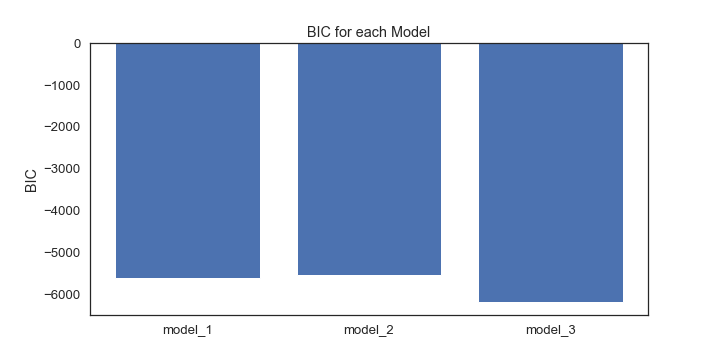
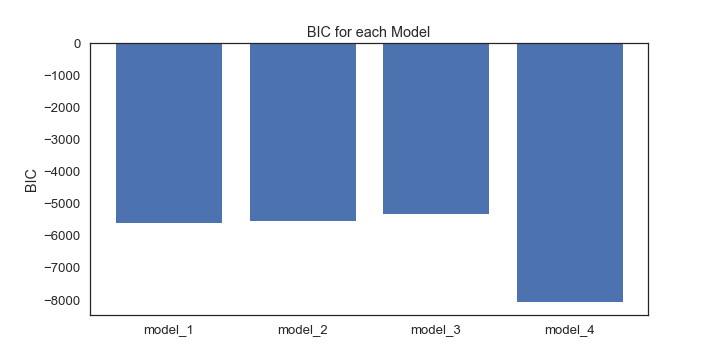
wip, model-3 worked in this run....

diff --git a/hw-4/instrumental-interactions/model_template.py b/hw-4/instrumental-interactions/model_template.py
@@ -246,6 +246,7 @@ def model_1(data, learning_rate, beta):
         """
         prediction_error = (beta * reward) - q[state, action] 
         return q[state, action] + learning_rate * prediction_error
+    
     return model_negative_log_likelihood(data, update_rule) 
 
 #%%
@@ -301,6 +302,7 @@ Model Number: 3
 Parameters: \epsilon_{rew}, \epsilon_{pun}, \epsilon_{omm}, \beta
 Expected BIC: 4665
 """
+# learning_rate_rew', 'learning_rate_pun', 'learning_rate_omit', 'beta'
 def model_3(data, learning_rate_rew, learning_rate_pun, learning_rate_omm, beta):
     """
     """
@@ -315,15 +317,16 @@ def model_3(data, learning_rate_rew, learning_rate_pun, learning_rate_omm, beta)
         reward: int
             The reward
         """
-        if reward == 1:
-            prediction_error = (beta * reward) - q[state, action]
-            return q[state, action] + learning_rate_rew * prediction_error
-        elif reward == -1:
-            prediction_error = (beta * reward) - q[state, action]
-            return q[state, action] + learning_rate_pun * prediction_error
-        elif reward == 0: # Omission
-            prediction_error = 0 - q[state, action]
-            return q[state, action] + learning_rate_omm * prediction_error
+        # Create an array of learning rates corresponding to reward values
+        learning_rates = np.array([learning_rate_pun, learning_rate_omm, learning_rate_rew])
+        # Map reward values to indices: -1 -> 0, 0 -> 1, 1 -> 2
+        reward_index = reward + 1
+        # Select the appropriate learning rate
+        learning_rate = learning_rates[reward_index]
+        # Calculate the prediction error
+        prediction_error = (beta * reward) - q[state, action]
+        # Update the Q-value
+        return q[state, action] + learning_rate * prediction_error
         
     return model_negative_log_likelihood(data, update_rule)  
 
@@ -357,7 +360,7 @@ def create_bias_matrix(num_states, num_actions, bias_app, bias_wth):
 
 def model_4(data, learning_rate, beta, bias_app, bias_wth):
     """
-     
+    Model-4 includes biases.
     """
     def q_bias(q, state, action, reward):   
         # Each of the 4 cue states Go+, Go-, NoGo+, NoGo-
@@ -438,6 +441,7 @@ def model_5(data, learning_rate, rho_rew, rho_pun, bias_app, bias_wth):
         return q[state, action] + learning_rate * prediction_error + bias_app - bias_wth
     
     return model_negative_log_likelihood(data, update_rule)
+
 """
 Model-6: Assumes that:
     * \epsilon -  learning rate
@@ -482,8 +486,6 @@ PARAMS = {
     'model_7': ['learning_rate_rew', 'learning_rate_pun', 'learning_rate_omit', 'rho_rew', 'rho_pun', 'bias_app', 'bias_wth']
 }
 
-
-
 BOUNDS = {
     'model_1': {
         'learning_rate': (0, 1), 
@@ -506,7 +508,7 @@ BOUNDS = {
         'bias_app': (-10, 10),
         'bias_wth': (-10, 10)
     }
-} 
+}
 
 INITIAL_PARAMS = {
     'model_1': {
@@ -541,6 +543,7 @@ MODELS = {
     #'model_6': model_6,
     #'model_7': model_7
 }
+
 #%%
 """
 Optimize the models: 
@@ -607,7 +610,7 @@ def fit_model(df, model, model_id, method='Nelder-Mead', use_cache=True):
         model_id = subject_result['model_id']
         negative_log_likelihood = subject_result['negative_log_likelihood']
         params = subject_result['params']
-        print(f"subject {subject_id}: params = {params}, negative-log-likelihood = {negative_log_likelihood}")
+        print(f"model {model_id} subject {subject_id}: params = {params}, negative-log-likelihood = {negative_log_likelihood}")
                 
     # compute BIC
     subject_bics = [BIC(r["num_trials"], r["num_params"], r["negative_log_likelihood"]) for r in subject_results]
@@ -669,13 +672,20 @@ assert np.isclose(model_results['model_1']['model_neg_log_likelihood'] , 3248.52
 - What does this tell you about which model describes the data best ?
 """
 def load_model_results(file_path='model_results.pkl'):
+    """
+    Load model results from pkl file.
+    """
     with open(file_path, 'rb') as f:
         model_results = pickle.load(f)
     return model_results
 
 model_results = load_model_results()
 
-def plot_log_likelihoods(models, log_likelihoods, save_path='log_likelihoods.png'):
+def plot_log_likelihoods(models, log_likelihoods, 
+                         save_path='log_likelihoods.png'):
+    """
+    Plot the log-likelihoods for each model.
+    """
     plt.figure(figsize=(10, 5))
     plt.bar(models, log_likelihoods)
     plt.ylabel('Negative Log-Likelihood')
@@ -684,6 +694,9 @@ def plot_log_likelihoods(models, log_likelihoods, save_path='log_likelihoods.png
     plt.show()
 
 def plot_bics(models, bics, save_path='bics.png'):
+    """
+    Plot the BICs for each model.
+    """
     plt.figure(figsize=(10, 5))
     plt.bar(models, bics)
     plt.ylabel('BIC')
@@ -693,8 +706,9 @@ def plot_bics(models, bics, save_path='bics.png'):
 
 # Plot the log-likelihoods and BICs
 models = list(model_results.keys())
-log_likelihoods = [-model_results[model_id]['model_neg_log_likelihood'] for model_id in models]
-bics = [model_results[model_id]['model_bic'] for model_id in models]
+log_likelihoods = [ -model_results[model_id]['model_neg_log_likelihood'] for model_id in models ]
+bics = [ model_results[model_id]['model_bic'] for model_id in models ]
+
 plot_log_likelihoods(models, log_likelihoods)
 plot_bics(models, bics)
 
